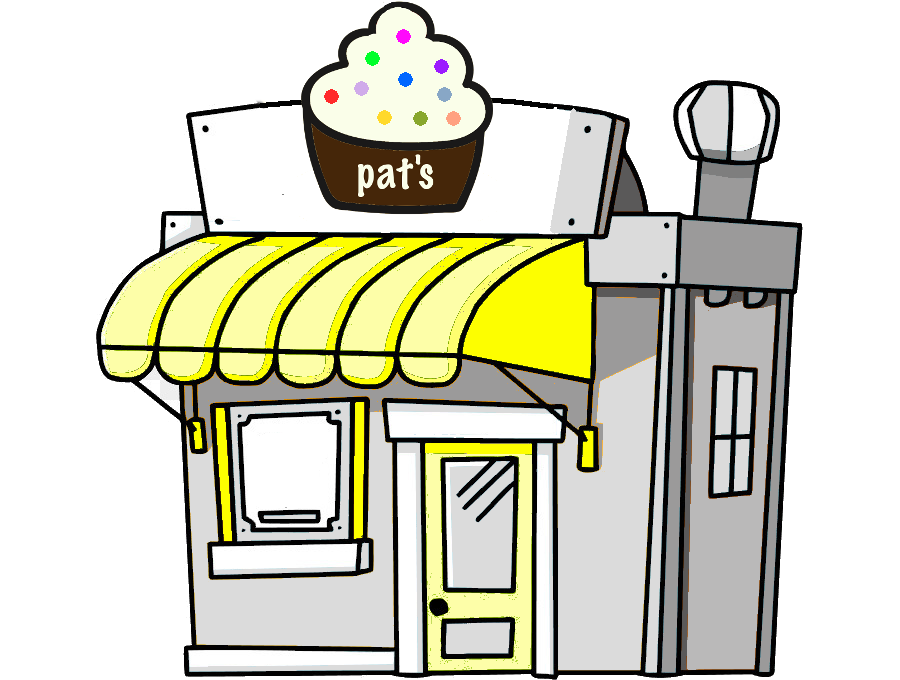
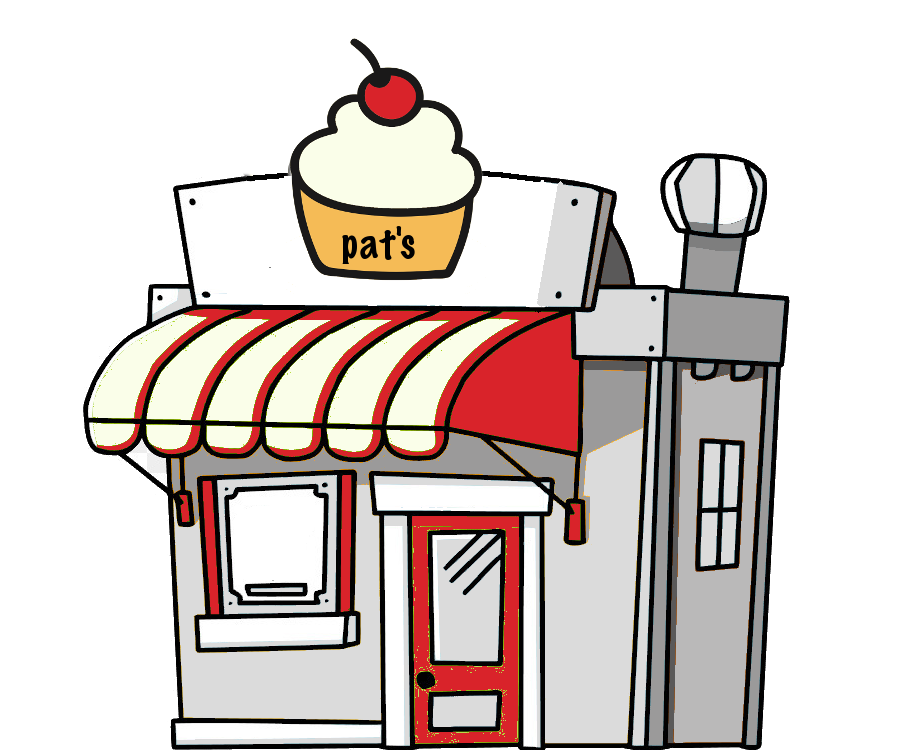
replaced drink stands with cupcakes in all areas

diff --git a/Classes/Manager Classes/DifficultyManager.swift b/Classes/Manager Classes/DifficultyManager.swift
@@ -43,8 +43,8 @@ class DifficultyManager {
                 insectFactor = 9;
                 rockFactor = 2;
 
-                portalFactor = 9;
-                standPlaneFactor = 9;
+                portalFactor = 10;
+                standPlaneFactor = 10;
 
                 startAloneFactor = 8;
                 lowMiddleEndFactor = 8;

diff --git a/Classes/Helper Scene Classes/Loading.swift b/Classes/Helper Scene Classes/Loading.swift
@@ -27,7 +27,7 @@ class Loading: SKScene {
     public func setSceneOption() {
         
         lastOption = option;
-        let sceneOptions = ["A", "A", "A"];
+        let sceneOptions = ["C", "C", "C"];
         let maxIndex = sceneOptions.count - 1;
 
         while option == lastOption {
